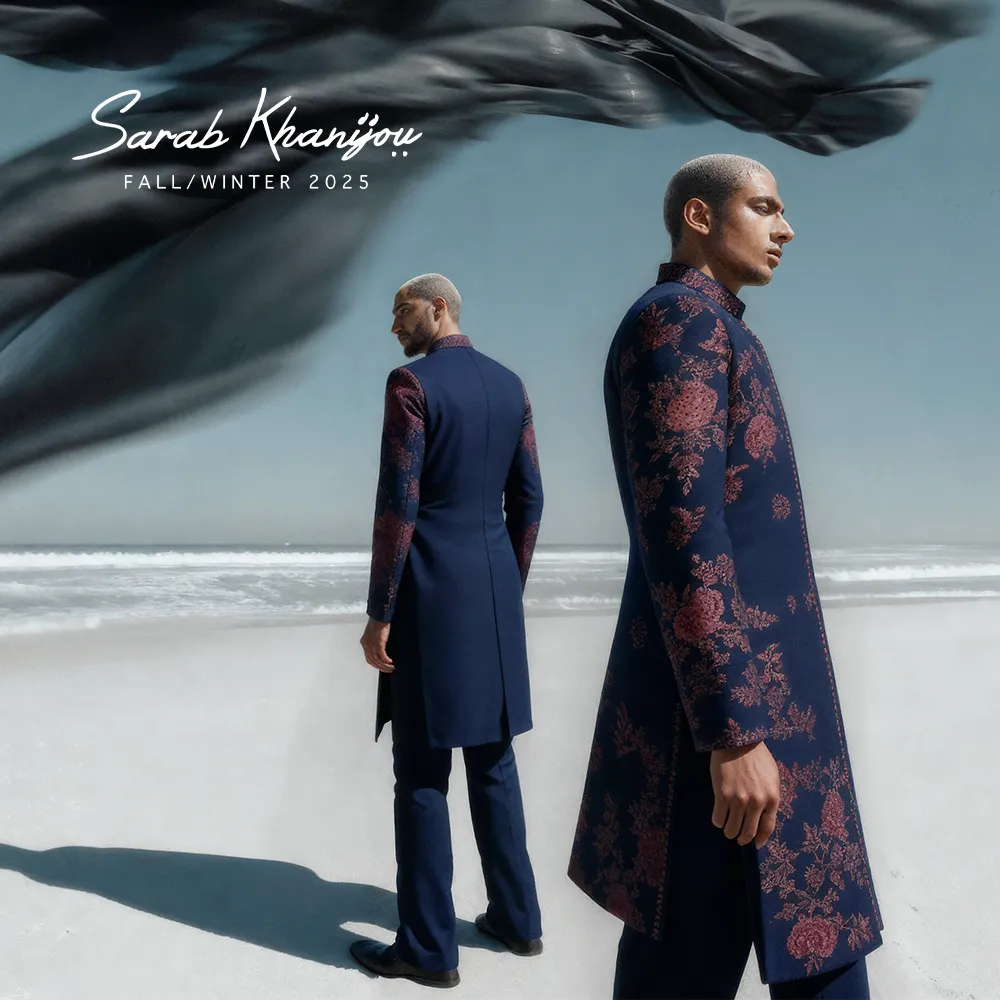
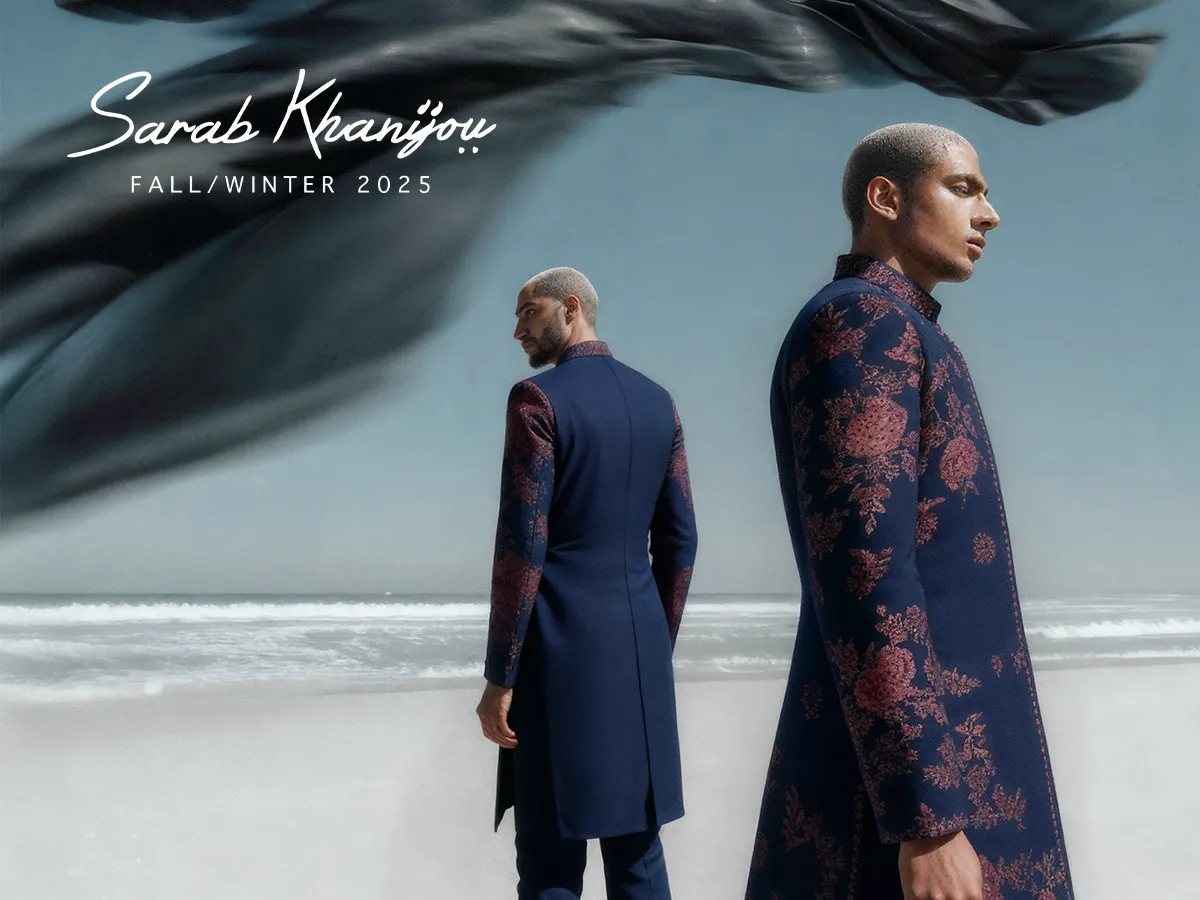
new one

diff --git a/src/components/common/Transition.jsx b/src/components/common/Transition.jsx
@@ -3,7 +3,7 @@ import gsap from "gsap";
 import { ScrollTrigger } from "gsap/dist/ScrollTrigger";
 import CustomEase from "gsap/dist/CustomEase";
 
-gsap.registerPlugin(CustomEase);
+gsap.registerPlugin(ScrollTrigger, CustomEase);
 CustomEase.create("ease-secondary", "0.16, 1, 0.35, 1");
 
 export default function Transition({ children, routeKey }) {
@@ -13,6 +13,7 @@ export default function Transition({ children, routeKey }) {
   const blocksRef = useRef([]);
   const [grid, setGrid] = useState({ cols: 1, rows: 1 });
 
+  // 🧮 Calculate grid blocks
   useEffect(() => {
     const size = 50;
     const handleResize = () => {
@@ -27,71 +28,103 @@ export default function Transition({ children, routeKey }) {
 
   const totalBlocks = grid.cols * grid.rows;
 
+  // 🧠 Wait until scrollY === 0 (Lenis-safe)
+  const waitForScrollTop = async (timeoutMs = 2000) => {
+    return new Promise((resolve) => {
+      const start = performance.now();
+
+      const checkScroll = () => {
+        const y = window.scrollY || window.pageYOffset || 0;
+        const lenis = window.lenis;
+        const lenisY = lenis ? lenis.scroll : y;
+
+        if (lenisY <= 0.5 || y <= 0.5) {
+          resolve();
+          return;
+        }
+
+        if (performance.now() - start > timeoutMs) {
+          resolve(); // fallback after timeout
+          return;
+        }
+
+        requestAnimationFrame(checkScroll);
+      };
+
+      checkScroll();
+    });
+  };
+
+  // 🟢 Fade In (Cover animation)
+  const fadeIn = () =>
+    new Promise((resolve) => {
+      const el = screenRef.current;
+      if (!el) return resolve();
+
+      gsap.set(el, { autoAlpha: 1 });
+      gsap.set(blocksRef.current, { autoAlpha: 0 });
+
+      gsap.to(blocksRef.current, {
+        autoAlpha: 1,
+        duration: 0.25,
+        ease: "ease-secondary",
+        stagger: { amount: 0.3, from: "random" },
+        onComplete: resolve,
+      });
+    });
+
+  // 🔴 Fade Out (Reveal animation)
+  const fadeOut = () =>
+    new Promise((resolve) => {
+      const el = screenRef.current;
+      if (!el) return resolve();
+
+      gsap.to(blocksRef.current, {
+        autoAlpha: 0,
+        duration: 0.25,
+        delay: 0.25,
+        ease: "ease-secondary",
+        stagger: { amount: 0.3, from: "random" },
+        onComplete: () => {
+          gsap.to(el, {
+            autoAlpha: 0,
+            duration: 0.2,
+            ease: "ease-secondary",
+            onComplete: resolve,
+          });
+        },
+      });
+    });
+
+  // 🔁 Route change sequence
   useEffect(() => {
     if (!screenRef.current || !containerRef.current) return;
 
-    const el = screenRef.current;
+    const runSequence = async () => {
+      // Step 1⃣: Fade In transition cover
+      await fadeIn();
 
-    const fadeIn = () =>
-      new Promise((resolve) => {
-        gsap.set(el, { autoAlpha: 1 });
-        gsap.set(blocksRef.current, { autoAlpha: 0 });
-        gsap.to(blocksRef.current, {
-          autoAlpha: 1,
-          duration: 0.25,
-          ease: "ease-secondary",
-          stagger: { amount: 0.3, from: "random" },
-          onComplete: resolve,
-        });
-      });
-
-    const fadeOut = () =>
-      new Promise((resolve) => {
-        gsap.to(blocksRef.current, {
-          autoAlpha: 0,
-          duration: 0.25,
-          ease: "ease-secondary",
-          stagger: { amount: 0.3, from: "random" },
-          onComplete: () => {
-            gsap.to(el, {
-              autoAlpha: 0,
-              duration: 0.2,
-              ease: "ease-secondary",
-              onComplete: resolve,
-            });
-          },
-        });
-      });
-
-    fadeIn().then(() => {
+      // Step 2⃣: Switch to next children (new route content)
       setDisplayChildren(children);
-    });
+
+      // Step 3⃣: Force scroll to top
+      const lenis = window.lenis;
+      if (lenis) lenis.scrollTo(0, { immediate: false });
+      else window.scrollTo({ top: 0, behavior: "smooth" });
+
+      // Step 4⃣: Wait until scroll reaches (0, 0)
+      await waitForScrollTop(2500);
+
+      // Step 5⃣: Fade Out cover (reveal new page)
+      await fadeOut();
+
+      // Step 6⃣: Refresh scroll + triggers
+      ScrollTrigger.refresh();
+      if (window.lenis) window.lenis.resize();
+    };
+
+    runSequence();
   }, [routeKey]);
-
-  useEffect(() => {
-    if (!screenRef.current) return;
-
-    const lenis = window.lenis; 
-    if (lenis) lenis.scrollTo(0, { immediate: true }); 
-
-
-    const el = screenRef.current;
-    gsap.to(blocksRef.current, {
-      autoAlpha: 0,
-      duration: 0.25,
-      delay: 0.25,
-      ease: "ease-secondary",
-      stagger: { amount: 0.3, from: "random" },
-      onComplete: () => {
-        gsap.to(el, {
-          autoAlpha: 0,
-          duration: 0.2,
-          ease: "ease-secondary",
-        });
-        ScrollTrigger.refresh();
-      },
-    });
-  }, [displayChildren]);
 
   return (
     <>
@@ -110,7 +143,7 @@ export default function Transition({ children, routeKey }) {
           <div
             key={i}
             ref={(el) => (blocksRef.current[i] = el)}
-            className="bgred border opacity-0 border-black w-full h-full"
+            className="bgred border border-black opacity-0 w-full h-full"
           />
         ))}
       </div>

diff --git a/src/pages/projects/[slug]/index.jsx b/src/pages/projects/[slug]/index.jsx
@@ -134,12 +134,21 @@ const ProjectDetail = ({ project, currentIndex }) => {
 
     return (
         <>
-            <div className="fixed fixy_img_dcd z-[-1] top-0 left-0 w-full h-screen">
-                {project?.heroImg === "" ? (
-                    <img className='w-full h-full object-contain' src={project?.logo} alt="" />
-                ) : (
-                    <img className='w-full h-full object-cover' src={project?.heroImg} alt="" />
-                )}
+            <div className="fixed fixy_img_dcd center z-[-1] top-0 left-0 w-full h-screen">
+                <div className=" lg:hidden">
+                    {project?.heroImg === "" ? (
+                        <img className='w-full h-full object-contain' src={project?.logo} alt="" />
+                    ) : (
+                        <img className='w-full h-full object-contain' src={project?.heroImg} alt="" />
+                    )}
+                </div>
+                <div className="hidden lg:block">
+                    {project?.heroImg === "" ? (
+                        <img className='w-full h-full object-contain' src={project?.logo} alt="" />
+                    ) : (
+                        <img className='w-full h-full object-cover' src={project?.heroImg} alt="" />
+                    )}
+                </div>
             </div>
             <div className="absolute overflow-hidden h-[100vh]  w-full top-0 left-0 z-[-1]">
                 <div className="w-full h-[70vh] bg-black"></div>
@@ -154,7 +163,7 @@ const ProjectDetail = ({ project, currentIndex }) => {
                     </div>
                     <div className="w-full  sticky z-[2] top-[50vh] text-base lg:text-xl uppercase leading-tight py-4 flex flex-col gap-y-2 md:gap-y-0 md:flex-row  md:justify-between">
                         <div className="  w-full  md:w-1/2 flex items-center gap-2">
-                            <p className=' pj_anim_txt opacity-0 w-[80%]'>{project?.tagline}</p>
+                            <p className=' pj_anim_txt opacity-0 w-full lg:w-[80%]'>{project?.tagline}</p>
                         </div>
                         <div className=" w-full  mt-2 md:mt-0 md:w-1/2 flex justify-between">
                             <div className=" hidden md:block pj_anim_txt opacity-0 w-1/2">
@@ -308,7 +317,6 @@ export default ProjectDetail
 
 
 export async function getServerSideProps(context) {
-    console.log(context);
     const { slug } = context.params;
 
     const project =

diff --git a/src/components/Home/Hero.jsx b/src/components/Home/Hero.jsx
@@ -10,8 +10,25 @@ import Link from 'next/link'
 const Hero = () => {
 
     useGSAP(() => {
-        const video = document.getElementById("heroVideo");
 
+        const video = document.getElementById("heroVideo");
+        const tryPlay = () => {
+            if (video && video.paused) {
+                const playPromise = video.play();
+                if (playPromise !== undefined) {
+                    playPromise.catch(() => {
+                        const resumePlay = () => {
+                            video.play();
+                            document.removeEventListener('touchstart', resumePlay);
+                            document.removeEventListener('click', resumePlay);
+                        };
+                        document.addEventListener('touchstart', resumePlay);
+                        document.addEventListener('click', resumePlay);
+                    });
+                }
+            }
+        };
+        setTimeout(tryPlay, 800);
         video.muted = true;
         video.playsInline = true;
         video.currentTime = 0;
@@ -89,7 +106,13 @@ const Hero = () => {
                     </div>
                     <video
                         className="w-[0%] clip_vid h-[0%] contrast-[.9] object-cover"
-                        loop muted playsInline
+                        loop
+                        autoPlay
+                        muted
+                        playsInline
+                        preload="auto"
+                        webkit-playsinline="true"
+                        x-webkit-airplay="deny"
                         id="heroVideo"
                         src="/video/show_reel.mp4"
                     ></video>

diff --git a/src/pages/career/[slug]/index.jsx b/src/pages/career/[slug]/index.jsx
@@ -128,7 +128,12 @@ const CareerDetail = ({ job }) => {
                         >
                             <div className="w-[30vw] relative aspect-[4/3] border space-y-8 border-white/20 center flex-col text-center bg-black">
                                 <p
-                                    onClick={() => setHideSuccess(true)}
+                                    onClick={() => {
+                                        setHideSuccess(true)
+                                        window.scrollTo(0, 0);
+                                        const lenis = window.lenis;
+                                        if (lenis) lenis.scrollTo(0, { immediate: true });
+                                    }}
                                     className="absolute top-5 right-5 cursor-pointer text-xl"
                                 >
                                     ✕

diff --git a/src/pages/api/submitCareerForm.js b/src/pages/api/submitCareerForm.js
@@ -76,7 +76,7 @@ export default async function handler(req, res) {
     const fileName = `resumes/${Date.now()}-${path.basename(resume.originalFilename)}`;
 
     const uploadParams = {
-      Bucket: process.env.S3_BUCKET_NAME,
+      Bucket: "disrptive",
       Key: fileName,
       Body: fileBuffer,
       ContentType: resume.mimetype,
@@ -102,7 +102,7 @@ export default async function handler(req, res) {
 
     await sheets.spreadsheets.values.append({
       spreadsheetId,
-      range: "Sheet2!A:G", 
+      range: "Sheet2!A:G",
       valueInputOption: "USER_ENTERED",
       insertDataOption: "INSERT_ROWS",
       requestBody: { values: [newRow] },

diff --git a/src/components/ui/Form.jsx b/src/components/ui/Form.jsx
@@ -166,11 +166,14 @@ const Form = ({ openForm, setOpenForm }) => {
                 Contact
               </h3>
               <input
-                type="text"
+                type="tel"
                 name="phone"
                 value={formData.phone}
                 autoComplete='off'
-                onChange={handleChange}
+               onChange={(e) => {
+                  const value = e.target.value;
+                  if (/^\d*$/.test(value)) handleChange(e);
+                }}
                 className="border-b border-white/30 w-full text-lg outline-none bg-transparent"
               />
             </div>

diff --git a/src/components/LenisScroll.jsx b/src/components/LenisScroll.jsx
@@ -5,7 +5,7 @@ import AOS from "aos";
 const LenisScroll = ({ children }) => {
 
   useEffect(() => {
-    if (window.innerWidth < 1024) return
+    // if (window.innerWidth < 1024) return
     const lenis = new Lenis({
       duration: 1.5,
       easing: (t) => Math.min(1, 1.001 - Math.pow(2, -10 * t)),
